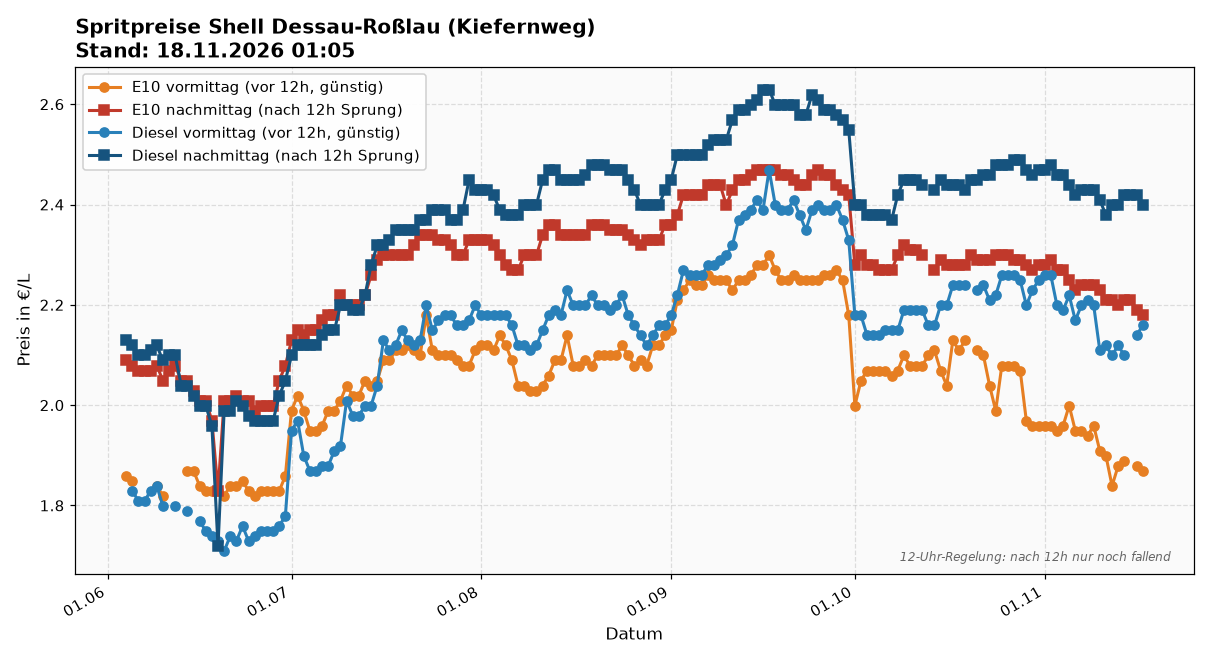
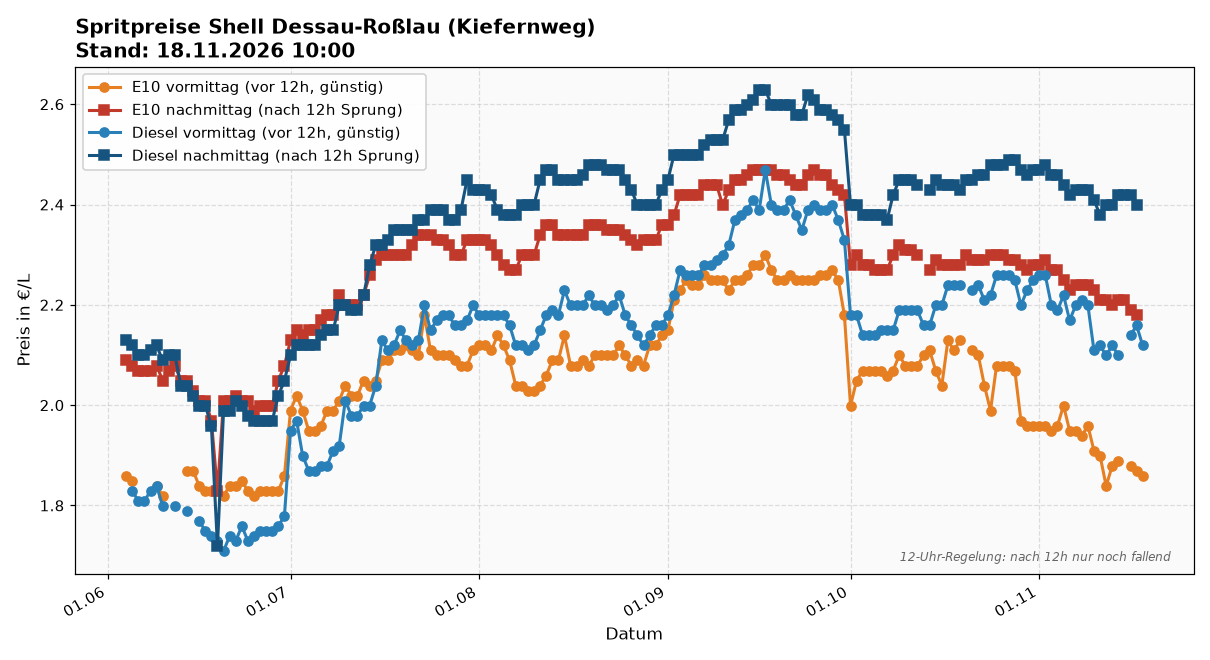
update: spritpreise 2026-11-18 10:00

diff --git a/index.html b/index.html
@@ -19,17 +19,17 @@
 </head>
 <body>
 <h1>🛢 Spritpreise Shell Dessau-Roßlau (Kiefernweg)</h1>
-<div class="sub">Source: Tankerkönig · Stand: 18.11.2026 01:05</div>
+<div class="sub">Source: Tankerkönig · Stand: 18.11.2026 10:00</div>
 
 <img src="latest.png" alt="Preisverlauf">
 
 <div class="latest">
   <strong>Heute (2026-11-18)</strong>
-  <div style="color:#888;font-style:italic;margin-bottom:0.5em;">Noch keine Messung heute — cron läuft 09:00 + 12:10.</div>
+  
   <table>
-    <tr><td>E10 vormittag</td><td class="price">— €</td></tr>
+    <tr><td>E10 vormittag</td><td class="price">1.859 €</td></tr>
     <tr><td>E10 nachmittag</td><td class="price">— €</td></tr>
-    <tr><td>Diesel vormittag</td><td class="price">— €</td></tr>
+    <tr><td>Diesel vormittag</td><td class="price">2.119 €</td></tr>
     <tr><td>Diesel nachmittag</td><td class="price">— €</td></tr>
   </table>
 </div>
